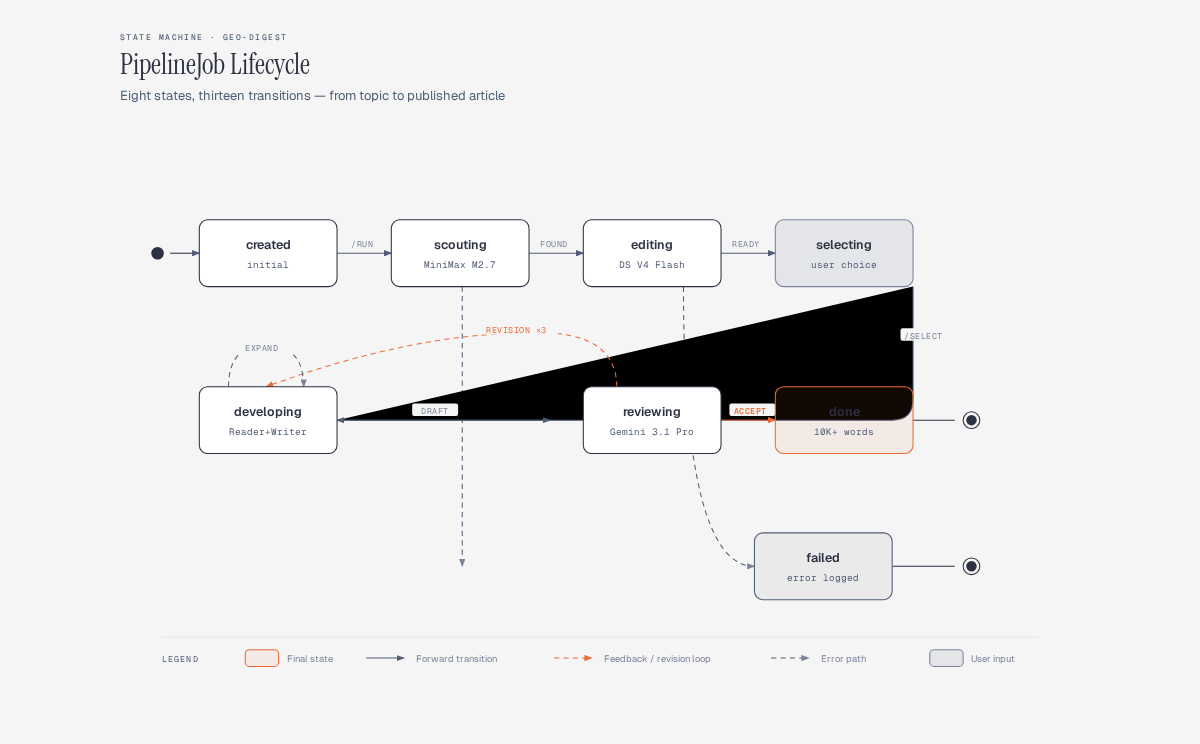
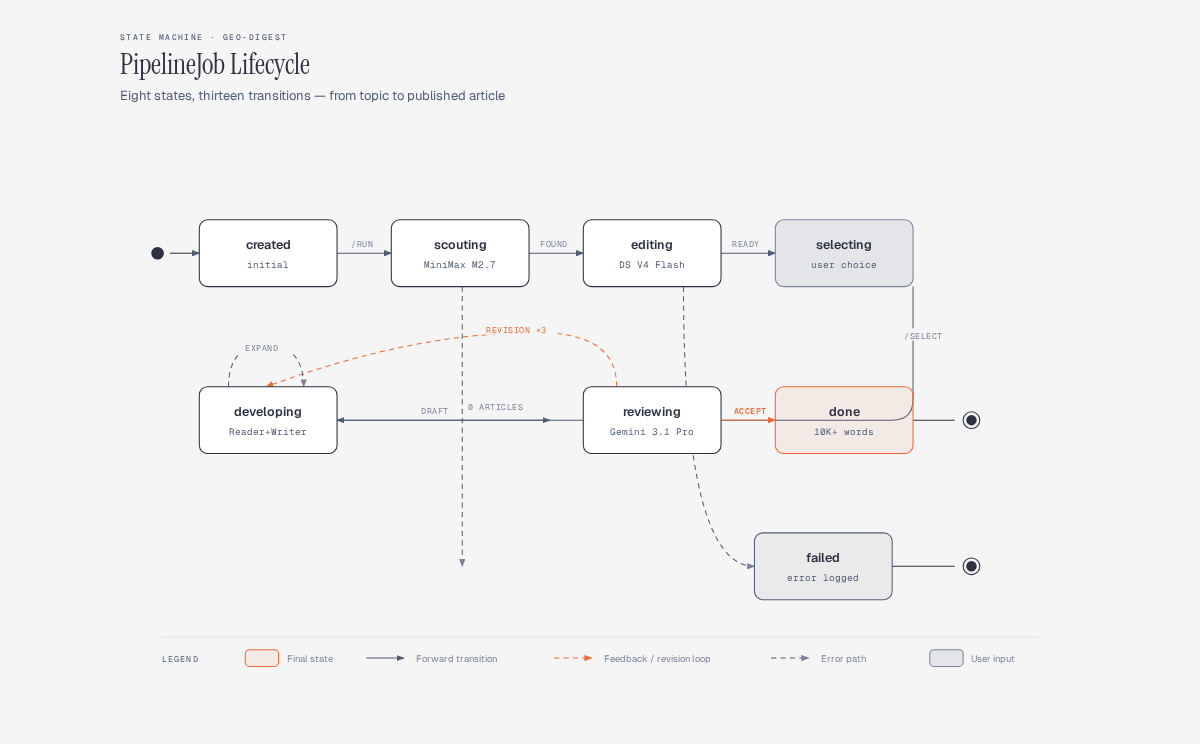
fix: state machine diagram — missing fill=none caused black triangle

Changed region(s): [[0.2775, 0.371, 0.7708, 0.5874]]

diff --git a/docs/diagrams/pipeline-state-machine.html b/docs/diagrams/pipeline-state-machine.html
@@ -68,7 +68,7 @@
   <text x="560" y="290" fill="#7a8399" font-size="8" font-family="'Geist Mono', monospace" text-anchor="middle" letter-spacing="0.06em">ERROR</text>
 
   <!-- selecting → developing (down curve) -->
-  <path d="M 760 152 L 760 260 Q 760 280 740 280 L 208 280" stroke="#4f5d75" stroke-width="1" marker-end="url(#arrow)"/>
+  <path d="M 760 152 L 760 260 Q 760 280 740 280 L 208 280" stroke="#4f5d75" stroke-width="1" fill="none" marker-end="url(#arrow)"/>
   <rect x="748" y="192" width="44" height="12" rx="2" fill="#f5f5f5"/>
   <text x="770" y="202" fill="#7a8399" font-size="8" font-family="'Geist Mono', monospace" text-anchor="middle" letter-spacing="0.06em">/SELECT</text>
 